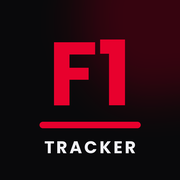
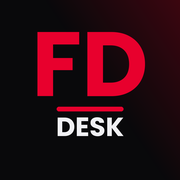
maj legal

Changed region(s): [[0.1944, 0.1667, 0.8333, 0.8611]]

diff --git a/public/legal.html b/public/legal.html
@@ -1,0 +1,65 @@
+<!DOCTYPE html>
+<html lang="fr">
+<head>
+  <meta charset="utf-8" />
+  <meta name="viewport" content="width=device-width, initial-scale=1" />
+  <meta name="robots" content="noindex" />
+  <title>Mentions légales et confidentialité — Formula DESK</title>
+  <style>
+    :root { color-scheme: dark; }
+    body { margin: 0; background: #09090b; color: #e7e7ea; font: 16px/1.6 system-ui, sans-serif; }
+    main { max-width: 760px; margin: 0 auto; padding: 24px 18px 64px; }
+    h1 { font-size: 1.6rem; } h2 { margin-top: 2rem; font-size: 1.2rem; color: #ff4d5e; }
+    a { color: #ff7a86; }
+    .todo { background: #3a2a00; color: #ffd27a; padding: 0 4px; border-radius: 3px; }
+    .back { display: inline-block; margin-bottom: 16px; }
+  </style>
+</head>
+<body>
+<main>
+  <a class="back" href="/">← Retour à Formula DESK</a>
+  <h1>Mentions légales et politique de confidentialité</h1>
+  <p><em>Dernière mise à jour : <span class="todo">[date]</span></em></p>
+
+  <h2>1. Éditeur du site</h2>
+  <p>
+    Nom / dénomination : <span class="todo">[Nom Prénom ou raison sociale]</span><br />
+    Statut : <span class="todo">[particulier / indépendant / société]</span><br />
+    Adresse : <span class="todo">[adresse postale]</span><br />
+    E-mail de contact : <span class="todo">[adresse e-mail]</span><br />
+    N° d'entreprise / TVA (si applicable) : <span class="todo">[numéro]</span>
+  </p>
+  <p>Directeur de la publication : <span class="todo">[nom]</span></p>
+
+  <h2>2. Hébergement</h2>
+  <p>Le site est hébergé par Netlify, Inc., 512 2nd Street, Suite 200, San Francisco, CA 94107, États-Unis (<a href="https://www.netlify.com" rel="noopener">netlify.com</a>).</p>
+
+  <h2>3. Nature du site et marques</h2>
+  <p>Formula DESK est un projet <strong>indépendant et non officiel</strong>. Il n'est ni affilié, ni approuvé, ni sponsorisé par Formula One Group, la FIA, ni par aucune écurie ou pilote. « F1 », « Formula 1 », « Formula One » et les noms, logos et marques des écuries sont la propriété de leurs titulaires respectifs et ne sont cités qu'à titre d'information.</p>
+
+  <h2>4. Sources des données</h2>
+  <p>Calendrier, résultats et classements proviennent de l'API publique <a href="https://github.com/jolpica/jolpica-f1" rel="noopener">Jolpica-F1</a> (successeur d'Ergast). Les drapeaux sont fournis par <a href="https://flagcdn.com" rel="noopener">Flagcdn</a>. Les polices Orbitron et Rajdhani sont distribuées sous licence SIL Open Font License.</p>
+  <p><span class="todo">[À compléter : crédits et licence des images du paddock et de la vidéo d'introduction.]</span></p>
+
+  <h2>5. Propriété intellectuelle</h2>
+  <p>Le code, la mise en page et les visuels originaux de ce site sont la propriété de l'éditeur, sauf mention contraire. Toute reproduction sans autorisation est interdite.</p>
+
+  <h2>6. Données personnelles</h2>
+  <p><strong>Ce site ne demande aucun compte, n'utilise aucun cookie de suivi ni outil de mesure d'audience, et ne collecte aucune donnée personnelle de manière directe.</strong></p>
+  <p>Toutefois, le fonctionnement du site implique les traitements techniques suivants :</p>
+  <ul>
+    <li><strong>Stockage local de votre navigateur</strong> (localStorage / sessionStorage) : mise en cache des résultats de course pour accélérer l'affichage, et mémorisation du fait que l'introduction a déjà été vue pendant la session. Ces données restent sur votre appareil, ne sont pas transmises et sont strictement nécessaires au service.</li>
+    <li><strong>Journaux techniques de l'hébergeur</strong> (adresse IP, date, pages demandées) conservés par Netlify pour la sécurité et le bon fonctionnement du service.</li>
+    <li><strong>Services tiers appelés depuis votre navigateur</strong>, qui reçoivent nécessairement votre adresse IP : l'API Jolpica-F1 (données de course), Flagcdn (drapeaux) et Google Fonts (polices).</li>
+    <li><strong>Notifications</strong> : si vous cliquez sur « Activer », votre navigateur vous demande l'autorisation d'afficher des notifications. Aucune donnée n'est envoyée à nos serveurs ; vous pouvez retirer l'autorisation à tout moment dans les réglages du navigateur.</li>
+  </ul>
+  <p>Base légale : intérêt légitime de l'éditeur à fournir et sécuriser le site (art. 6.1.f RGPD). Aucun transfert de données n'est effectué par l'éditeur lui-même ; certains prestataires cités ci-dessus peuvent être situés hors de l'Union européenne.</p>
+
+  <h2>7. Vos droits</h2>
+  <p>Conformément au RGPD, vous disposez d'un droit d'accès, de rectification, d'effacement, d'opposition et de limitation. Pour les exercer : <span class="todo">[adresse e-mail]</span>. En cas de désaccord, vous pouvez introduire une réclamation auprès de l'autorité de contrôle de votre pays <span class="todo">[ex. Belgique : Autorité de protection des données — autoriteprotectiondonnees.be ; France : CNIL — cnil.fr]</span>.</p>
+
+  <h2>8. Responsabilité</h2>
+  <p>Les informations sont fournies à titre indicatif et peuvent contenir des erreurs ou des retards. Pour toute information officielle, consultez le site de la Formule 1 et de la FIA. L'éditeur ne peut être tenu responsable de l'usage qui en est fait.</p>
+</main>
+</body>
+</html>

diff --git a/src/paddock/paddock.css b/src/paddock/paddock.css
@@ -57,7 +57,7 @@
 .pdk-screen.pdk-red{--glow:rgba(255,59,48,.1)} /* alerte active : lueur rouge */
 
 .pdk-bar{flex:0 0 28px;display:flex;align-items:center;gap:9px;padding:0 14px;font-family:'Orbitron',sans-serif;font-weight:700;font-size:.58rem;letter-spacing:.24em;color:var(--w);background:linear-gradient(180deg,rgba(255,255,255,.05),rgba(0,0,0,.25));border-bottom:1px solid rgba(255,255,255,.08)}
-.pdk-bar::after{content:"F1 TRACKER";margin-left:auto;font-size:.48rem;letter-spacing:.22em;color:var(--g2)}
+.pdk-bar::after{content:"FORMULA DESK";margin-left:auto;font-size:.48rem;letter-spacing:.22em;color:var(--g2)}
 .pdk-led{width:6px;height:6px;border-radius:50%;background:var(--red);box-shadow:0 0 8px var(--red);animation:pulse 1.8s infinite}
 .pdk-body{flex:1;min-height:0;overflow-y:auto;overflow-x:hidden;-webkit-overflow-scrolling:touch;scrollbar-width:thin;scrollbar-color:#2a2e36 transparent;touch-action:pan-y}
 .pdk-body .inner{max-width:none;padding:16px 16px 12px}
@@ -139,7 +139,7 @@
 .pit-row.next::before{content:"";position:absolute;left:.2em;width:.5em;height:.5em;border-radius:50%;background:#b8f400;box-shadow:0 0 .7em #b8f400}
 .pit-row.past{opacity:.55}
 
-/* téléphone : bandeau du ciel compact, placé SOUS le logo F1 TRACKER (le tableau des sessions reste identique, il est dans le décor) */
+/* téléphone : bandeau du ciel compact, placé SOUS le logo FORMULA DESK (le tableau des sessions reste identique, il est dans le décor) */
 @media (max-width:700px){
   .pit-sky-pos{top:100px;max-width:380px}
   .pit-sky{flex-direction:column;gap:5px;padding:6px 12px}

diff --git a/public/index.html b/public/index.html
@@ -5,7 +5,17 @@
     <meta name="viewport" content="width=device-width, initial-scale=1, viewport-fit=cover" />
     <meta name="theme-color" content="#09090b" />
     <meta name="description" content="Calendrier, résultats et classements F1 en direct" />
-    <title>F1 Tracker</title>
+    <title>Formula DESK</title>
+    <meta name="robots" content="index, follow" />
+
+    <!-- Aperçu lors d'un partage (WhatsApp, Discord, réseaux sociaux).
+         À compléter une fois le domaine connu : og:url et og:image (URL absolue, 1200×630 conseillé) -->
+    <meta property="og:type" content="website" />
+    <meta property="og:site_name" content="Formula DESK" />
+    <meta property="og:title" content="Formula DESK" />
+    <meta property="og:description" content="Calendrier, résultats et classements F1 en direct" />
+    <meta property="og:locale" content="fr_FR" />
+    <meta name="twitter:card" content="summary_large_image" />
 
     <!-- Icônes et installation sur l'écran d'accueil -->
     <link rel="icon" type="image/png" sizes="32x32" href="/favicon-32.png" />
@@ -15,7 +25,7 @@
     <!-- iPhone : mode application plein écran -->
     <meta name="apple-mobile-web-app-capable" content="yes" />
     <meta name="mobile-web-app-capable" content="yes" />
-    <meta name="apple-mobile-web-app-title" content="F1 Tracker" />
+    <meta name="apple-mobile-web-app-title" content="Formula DESK" />
     <meta name="apple-mobile-web-app-status-bar-style" content="black-translucent" />
   </head>
   <body>

diff --git a/src/App.js b/src/App.js
@@ -435,7 +435,7 @@ function Alerts(){
   const activate=async()=>{
     if(!("Notification" in window)){alert("Non supporté.");return;}
     const p=await Notification.requestPermission();
-    if(p==="granted"){setPush(true);new Notification("F1 Tracker 🏁",{body:`Alertes activées ! Prochain GP : ${gp.name}, ${fmtFull(gp.sessions.race)}.`});}
+    if(p==="granted"){setPush(true);new Notification("Formula DESK 🏁",{body:`Alertes activées ! Prochain GP : ${gp.name}, ${fmtFull(gp.sessions.race)}.`});}
     else alert("Permission refusée — activez les notifications dans les réglages du navigateur.");
   };
   return(<div className="fade">
@@ -665,7 +665,7 @@ const finishIntro=()=>{
     ):(
       <div className="app">
         <header className="hdr">
-          <div className="logo"><div className="dot"/><span className="logo-r">F1</span><span>TRACKER</span></div>
+          <div className="logo"><div className="dot"/><span className="logo-r">FORMULA</span><span>DESK</span></div>
           <span className="b26">{statusLabel}</span>
         </header>
         <div className="scroll">

diff --git a/src/paddock/Paddock.js b/src/paddock/Paddock.js
@@ -416,10 +416,10 @@ export default function Paddock({ children, onNavigate, introDone, alertActive, 
       {showHud && (
         <>
           <div className="pdk-hud">
-            <button type="button" className={`pdk-brand${inGarage ? " back" : ""}`} onPointerDown={stop} onClick={inGarage ? leave : undefined} aria-label={inGarage ? "Retour au paddock" : "F1 Tracker"}>
+            <button type="button" className={`pdk-brand${inGarage ? " back" : ""}`} onPointerDown={stop} onClick={inGarage ? leave : undefined} aria-label={inGarage ? "Retour au paddock" : "Formula DESK"}>
               {inGarage ? <span className="pdk-back">‹ PADDOCK</span> : <span className="pdk-dot" />}
               <span>
-                F1 <b>TRACKER</b>
+                FORMULA <b>DESK</b>
               </span>
             </button>
             <span className="pdk-status">{statusLabel}</span>
